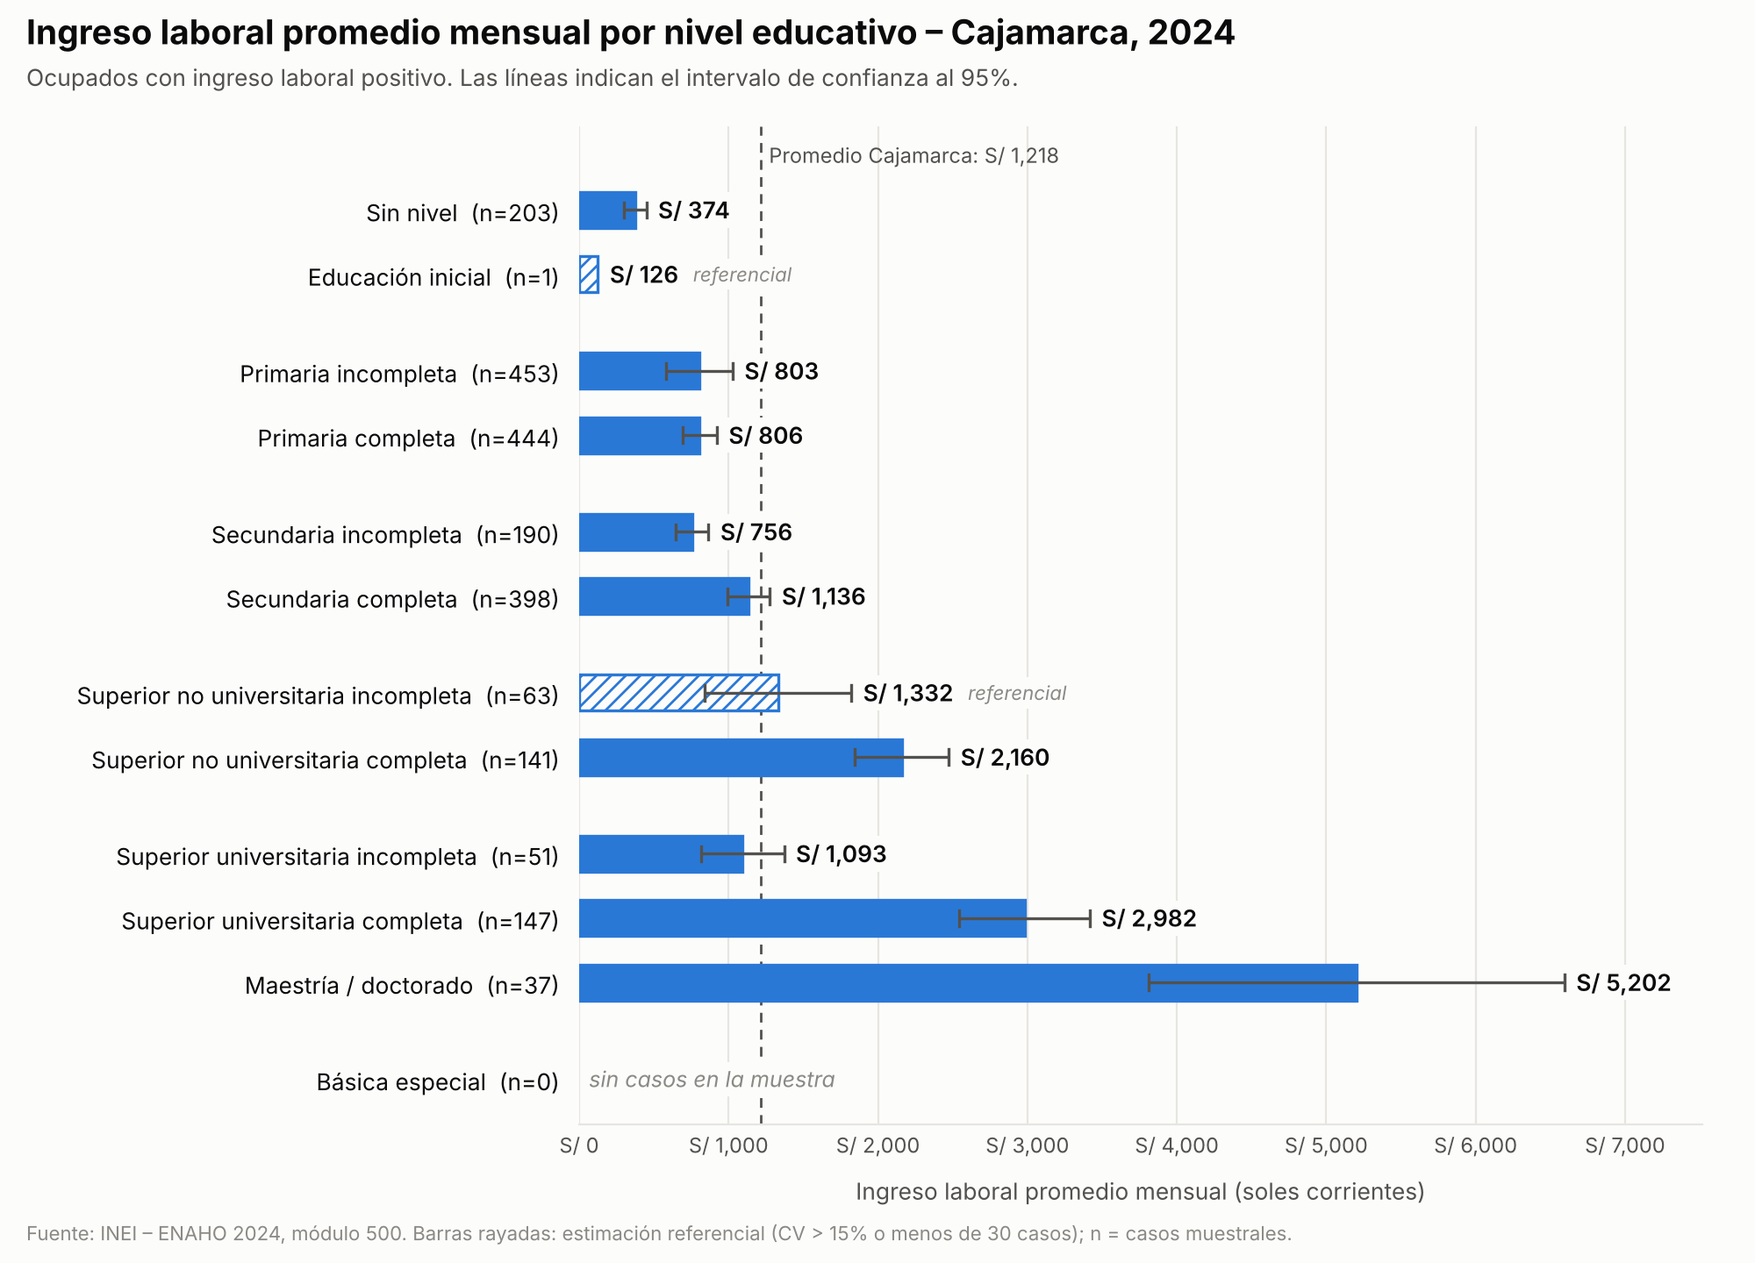
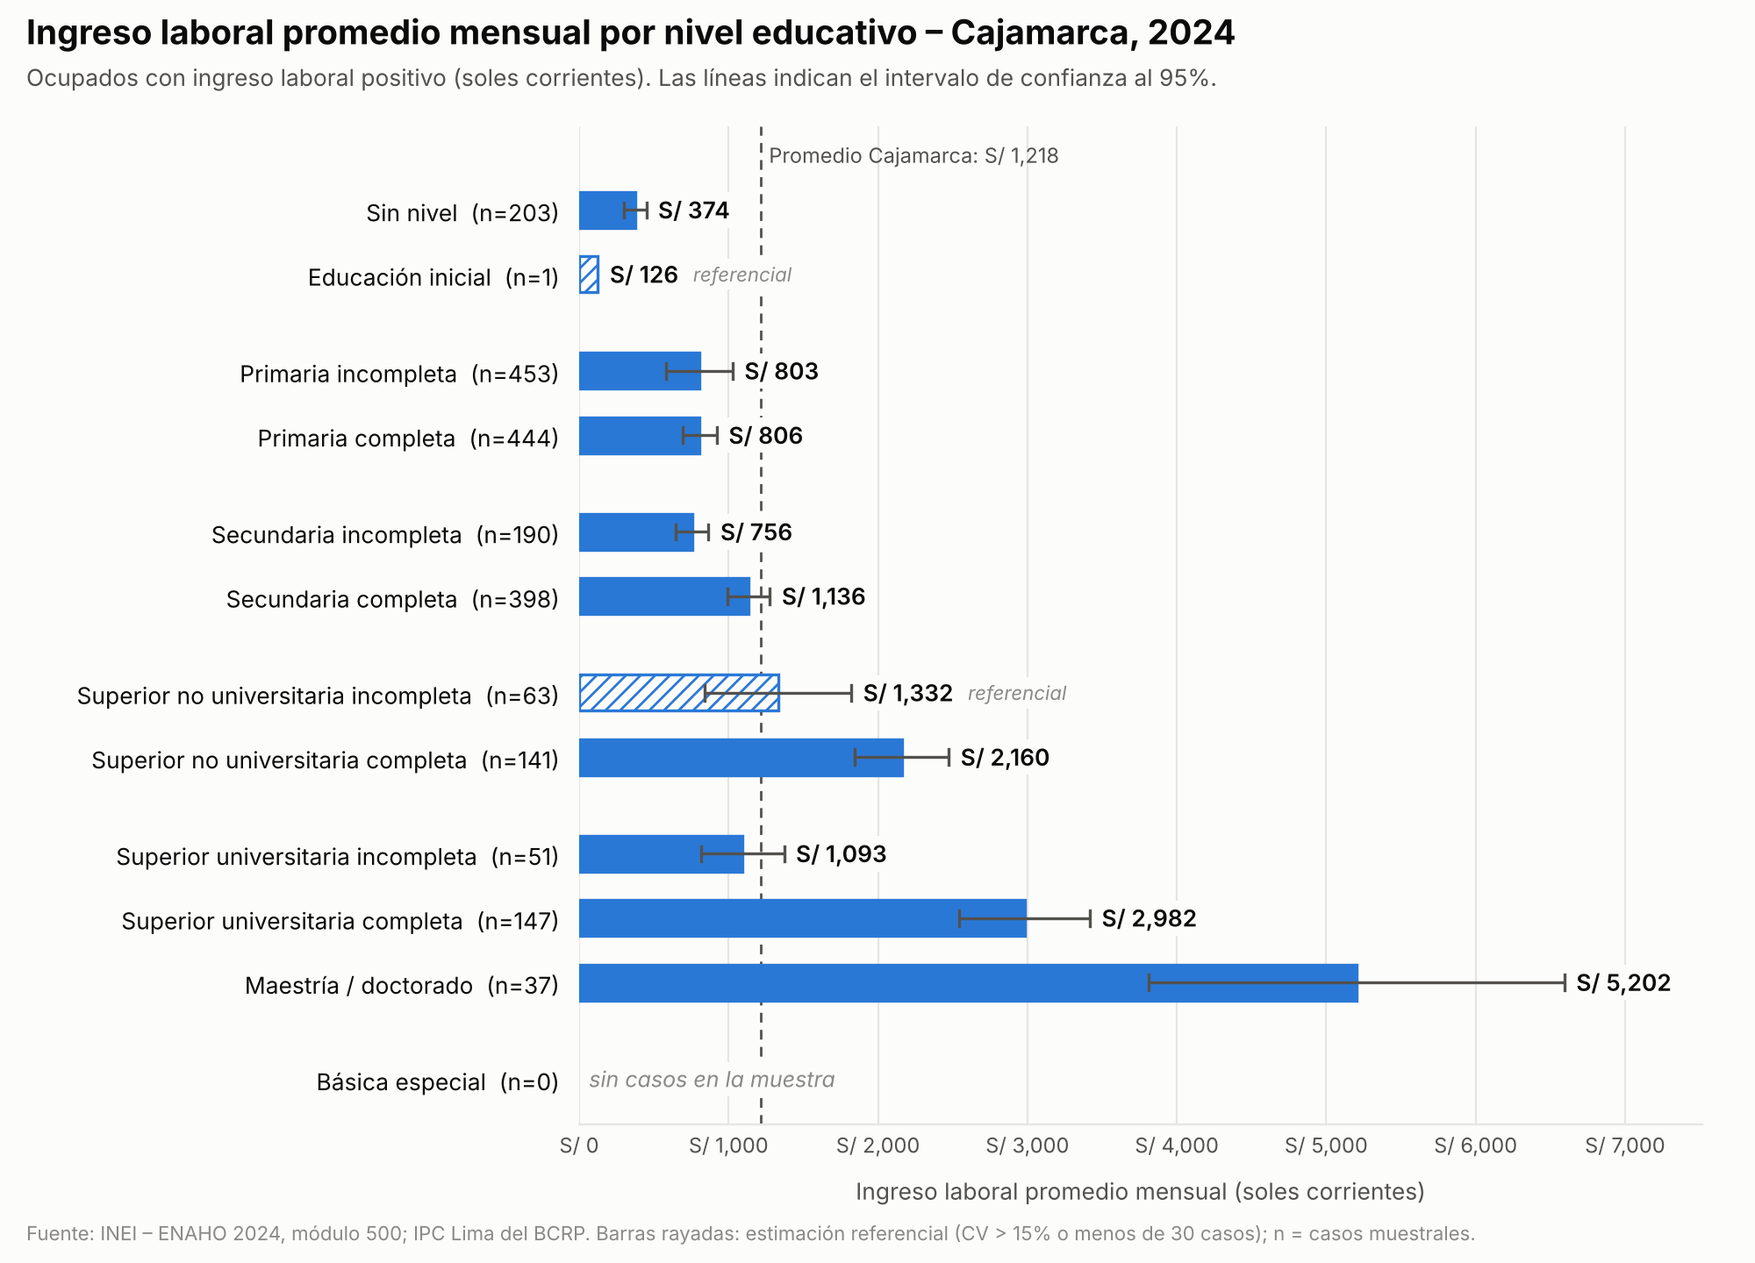
Combinar ENAHO 2020-2024 para estimar el ingreso por nivel educativo
- Descarga y apila los módulos 500 de 2020 a 2024 y lleva los ingresos a
  soles de 2024 con el IPC de Lima Metropolitana (BCRP).
- Divide los factores de expansión entre el número de años y trata cada
  conglomerado panel como una sola UPM al calcular la varianza.
- Mantiene Básica especial como categoría propia en todas las tablas.
- Marca como no estimable la varianza de dominios con un solo conglomerado.
- Agrega la tabla por año y el gráfico del periodo combinado.

Claude-Session: https://claude.ai/code/session_014uDJRbJZgJFJ4yigW9ayAW

diff --git a/enaho_cajamarca/ingreso_por_educacion.py b/enaho_cajamarca/ingreso_por_educacion.py
@@ -4,8 +4,13 @@ Fuente: ENAHO (INEI), módulo 500 "Empleo e Ingresos". El archivo del módulo 50
 ya trae la variable de nivel educativo (p301a), idéntica a la del módulo 300,
 por lo que no hace falta unir ambos módulos.
 
+Con varios años, las muestras se combinan (pooling): los ingresos se llevan a
+soles del último año con el IPC y los factores de expansión se dividen entre el
+número de años, de modo que la población expandida es un promedio anual.
+
 Uso:
-    python ingreso_por_educacion.py                 # Cajamarca (06), ENAHO 2024
+    python ingreso_por_educacion.py                      # Cajamarca (06), ENAHO 2020-2024
+    python ingreso_por_educacion.py --anios 2024         # un solo año
     python ingreso_por_educacion.py --departamento 15
 """
 
@@ -20,8 +25,12 @@ import pandas as pd
 import pyreadstat
 
 # Código de encuesta en el portal de microdatos del INEI (ENAHO anual, metodología actualizada).
-CODIGO_INEI = {2024: 966}
+CODIGO_INEI = {2020: 737, 2021: 759, 2022: 784, 2023: 906, 2024: 966}
 URL_MODULO = "https://proyectos.inei.gob.pe/iinei/srienaho/descarga/STATA/{codigo}-Modulo05.zip"
+
+# IPC Lima Metropolitana (índice dic. 2021 = 100), promedio anual de la serie
+# mensual PN38705PM del BCRP.
+IPC_LIMA = {2020: 93.165, 2021: 96.872, 2022: 104.503, 2023: 111.049, 2024: 113.660}
 
 # Componentes anuales del ingreso laboral (ocupación principal y secundaria,
 # monetario y en especie, más ingresos extraordinarios por trabajo dependiente).
@@ -52,15 +61,16 @@ NIVELES = {
     12: "Básica especial",
 }
 
-# Agrupación usada habitualmente por el INEI en sus publicaciones de empleo e ingreso.
+# Agrupación por etapas. Básica especial se mantiene como categoría propia.
 GRUPOS = {
-    1: "Primaria o menos", 2: "Primaria o menos", 3: "Primaria o menos",
-    4: "Primaria o menos", 12: "Primaria o menos",
+    1: "Primaria o menos", 2: "Primaria o menos", 3: "Primaria o menos", 4: "Primaria o menos",
     5: "Secundaria", 6: "Secundaria",
     7: "Superior no universitaria", 8: "Superior no universitaria",
     9: "Superior universitaria", 10: "Superior universitaria", 11: "Superior universitaria",
+    12: "Básica especial",
 }
-ORDEN_GRUPOS = ["Primaria o menos", "Secundaria", "Superior no universitaria", "Superior universitaria"]
+ORDEN_GRUPOS = ["Primaria o menos", "Secundaria", "Superior no universitaria",
+                "Superior universitaria", "Básica especial"]
 
 CV_MAXIMO = 0.15  # umbral del INEI para considerar una estimación confiable
 N_MINIMO = 30     # casos muestrales mínimos para no marcar la celda como referencial
@@ -81,12 +91,13 @@ def descargar_modulo(anio, carpeta):
     return destino
 
 
-def cargar_datos(ruta):
-    columnas = ["conglome", "ubigeo", "estrato", "ocu500", "fac500a", "p301a", "p507"] + COMPONENTES_INGRESO
+def cargar_anio(ruta, anio, anio_base, n_anios):
+    columnas = ["conglome", "ubigeo", "estrato", "ocu500", "fac500a", "p301a"] + COMPONENTES_INGRESO
     df, _ = pyreadstat.read_dta(str(ruta), usecols=columnas)
-    df["ingreso_mensual"] = df[COMPONENTES_INGRESO].sum(axis=1) / 12
-    df["fac500a"] = df["fac500a"].fillna(0)
-    return df
+    df["anio"] = anio
+    df["ingreso_mensual"] = df[COMPONENTES_INGRESO].sum(axis=1) / 12 * IPC_LIMA[anio_base] / IPC_LIMA[anio]
+    df["fac500a"] = df["fac500a"].fillna(0) / n_anios
+    return df.drop(columns=COMPONENTES_INGRESO)
 
 
 def media_ponderada(df, en_dominio, y="ingreso_mensual", w="fac500a"):
@@ -94,9 +105,14 @@ def media_ponderada(df, en_dominio, y="ingreso_mensual", w="fac500a"):
 
     El dominio se estima sobre la muestra nacional completa (estratos = estrato,
     UPM = conglome), así los conglomerados fuera del dominio aportan ceros y la
-    varianza respeta el diseño muestral.
+    varianza respeta el diseño muestral. Al combinar años, un conglomerado
+    visitado varios años (panel) cuenta como una sola UPM, lo que recoge la
+    correlación entre años. Si el dominio cae en un solo conglomerado, la
+    varianza no es estimable y se devuelve NaN.
     """
     wd = df[w] * en_dominio
+    if df.loc[en_dominio, "conglome"].nunique() < 2:
+        return (wd * df[y]).sum() / wd.sum(), np.nan
     total_w = wd.sum()
     media = (wd * df[y]).sum() / total_w
     u = wd * (df[y] - media) / total_w
@@ -116,19 +132,19 @@ def mediana_ponderada(valores, pesos):
     return v[np.searchsorted(acumulado, acumulado[-1] / 2)]
 
 
-def tabla(df, base, categorias, columna):
+def tabla(df, base, categorias, columna, etiqueta="nivel_educativo"):
     filas = []
     for cat in categorias + ["Total"]:
         en_dominio = base if cat == "Total" else base & (df[columna] == cat)
         sub = df[en_dominio]
         if sub.empty:
-            filas.append({"nivel_educativo": cat, "n_muestral": 0, "poblacion_expandida": 0,
+            filas.append({etiqueta: cat, "n_muestral": 0, "poblacion_expandida": 0,
                           "confiable": "sin casos"})
             continue
         media, ee = media_ponderada(df, en_dominio)
         cv = ee / media
         filas.append({
-            "nivel_educativo": cat,
+            etiqueta: cat,
             "n_muestral": len(sub),
             "poblacion_expandida": round(sub["fac500a"].sum()),
             "ingreso_promedio": round(media, 1),
@@ -137,20 +153,36 @@ def tabla(df, base, categorias, columna):
             "ic95_sup": round(media + 1.96 * ee, 1),
             "cv_pct": round(100 * cv, 1),
             "mediana": round(mediana_ponderada(sub["ingreso_mensual"], sub["fac500a"]), 1),
+            # cv NaN (varianza no estimable) también cae en "referencial".
             "confiable": "sí" if cv <= CV_MAXIMO and len(sub) >= N_MINIMO else "referencial",
         })
     return pd.DataFrame(filas)
 
 
+def leer_anios(texto):
+    if "-" in texto:
+        inicio, fin = (int(x) for x in texto.split("-"))
+        anios = list(range(inicio, fin + 1))
+    else:
+        anios = [int(x) for x in texto.split(",")]
+    faltantes = [a for a in anios if a not in CODIGO_INEI]
+    if faltantes:
+        raise argparse.ArgumentTypeError(f"Años sin código INEI configurado: {faltantes}")
+    return anios
+
+
 def main():
     parser = argparse.ArgumentParser(description=__doc__, formatter_class=argparse.RawDescriptionHelpFormatter)
-    parser.add_argument("--anio", type=int, default=2024, choices=sorted(CODIGO_INEI))
+    parser.add_argument("--anios", type=leer_anios, default=leer_anios("2020-2024"),
+                        help="Rango (2020-2024) o lista (2023,2024) de años de la ENAHO")
     parser.add_argument("--departamento", default="06", help="Código ubigeo de 2 dígitos (06 = Cajamarca)")
     parser.add_argument("--datos", type=Path, default=Path(__file__).parent / "datos")
     parser.add_argument("--salida", type=Path, default=Path(__file__).parent / "resultados")
     args = parser.parse_args()
 
-    df = cargar_datos(descargar_modulo(args.anio, args.datos))
+    anios, anio_base = args.anios, max(args.anios)
+    df = pd.concat([cargar_anio(descargar_modulo(a, args.datos), a, anio_base, len(anios)) for a in anios],
+                   ignore_index=True)
     df["nivel"] = df["p301a"].map(NIVELES)
     df["grupo"] = df["p301a"].map(GRUPOS)
 
@@ -159,18 +191,22 @@ def main():
     # trabajadores familiares no remunerados, que por definición reportan ingreso cero.
     con_ingreso = ocupado_dpto & (df["ingreso_mensual"] > 0)
 
-    args.salida.mkdir(parents=True, exist_ok=True)
-    pd.set_option("display.width", 200)
-    pd.set_option("display.max_columns", 20)
     resultados = {
         "grupos": tabla(df, con_ingreso, ORDEN_GRUPOS, "grupo"),
         "detalle": tabla(df, con_ingreso, list(NIVELES.values()), "nivel"),
         "grupos_todos_ocupados": tabla(df, ocupado_dpto, ORDEN_GRUPOS, "grupo"),
     }
+    if len(anios) > 1:
+        resultados["por_anio"] = tabla(df, con_ingreso, anios, "anio", etiqueta="anio")
+
+    periodo = f"{anios[0]}-{anios[-1]}" if len(anios) > 1 else str(anios[0])
+    args.salida.mkdir(parents=True, exist_ok=True)
+    pd.set_option("display.width", 200)
+    pd.set_option("display.max_columns", 20)
     for nombre, res in resultados.items():
-        archivo = args.salida / f"ingreso_educacion_{args.departamento}_{args.anio}_{nombre}.csv"
+        archivo = args.salida / f"ingreso_educacion_{args.departamento}_{periodo}_{nombre}.csv"
         res.to_csv(archivo, index=False, encoding="utf-8")
-        print(f"\n== {nombre} (S/ corrientes por mes) -> {archivo}")
+        print(f"\n== {nombre} (S/ de {anio_base} por mes) -> {archivo}")
         print(res.to_string(index=False))
 
 

diff --git a/enaho_cajamarca/grafico_ingreso_educacion.py b/enaho_cajamarca/grafico_ingreso_educacion.py
@@ -4,7 +4,8 @@ Lee la tabla detallada que genera ingreso_por_educacion.py y dibuja los 12 nivel
 de p301a de la ENAHO, con su intervalo de confianza al 95%.
 
 Uso:
-    python grafico_ingreso_educacion.py
+    python grafico_ingreso_educacion.py                   # Cajamarca, 2020-2024
+    python grafico_ingreso_educacion.py --periodo 2024
     python grafico_ingreso_educacion.py --departamento 15 --nombre Lima
 """
 
@@ -61,7 +62,11 @@ def configurar_fuente():
             return
 
 
-def graficar(tabla, nombre, anio, salida):
+def graficar(tabla, nombre, periodo, salida):
+    anios = periodo.split("-")
+    periodo_txt = "–".join(anios)
+    alcance = (f"promedio {periodo_txt} en soles de {anios[-1]}" if len(anios) > 1
+               else "soles corrientes")
     configurar_fuente()
     total = tabla.set_index("nivel_educativo").loc["Total", "ingreso_promedio"]
     datos = tabla[tabla["nivel_educativo"] != "Total"].set_index("nivel_educativo")
@@ -83,13 +88,13 @@ def graficar(tabla, nombre, anio, salida):
         referencial = fila["confiable"] != "sí"
         ax.barh(y, fila["ingreso_promedio"], height=0.56, color=SUPERFICIE if referencial else SERIE,
                 edgecolor=SERIE, linewidth=1.2, hatch="////" if referencial else None, zorder=2)
-        if fila["error_estandar"] > 0:
+        if pd.notna(fila["error_estandar"]) and fila["error_estandar"] > 0:
             ax.plot([fila["ic95_inf"], fila["ic95_sup"]], [y, y], color=TEXTO_SECUNDARIO,
                     linewidth=1.2, solid_capstyle="butt", zorder=3)
             for extremo in (fila["ic95_inf"], fila["ic95_sup"]):
                 ax.plot([extremo, extremo], [y - 0.12, y + 0.12], color=TEXTO_SECUNDARIO,
                         linewidth=1.2, zorder=3)
-        x_etiqueta = max(fila["ingreso_promedio"], fila["ic95_sup"]) + x_max * 0.012
+        x_etiqueta = fila[["ingreso_promedio", "ic95_sup"]].max() + x_max * 0.012
         valor = ax.text(x_etiqueta, y, soles(fila["ingreso_promedio"]), va="center", fontsize=9.5,
                         color=TEXTO, fontweight="semibold", bbox=fondo, zorder=4)
         if referencial:
@@ -112,14 +117,14 @@ def graficar(tabla, nombre, anio, salida):
     for lado in ("top", "right", "left"):
         ax.spines[lado].set_visible(False)
     ax.spines["bottom"].set_color(GRILLA)
-    ax.set_xlabel("Ingreso laboral promedio mensual (soles corrientes)", fontsize=9.5,
+    ax.set_xlabel(f"Ingreso laboral promedio mensual ({alcance})", fontsize=9.5,
                   color=TEXTO_SECUNDARIO, labelpad=8)
 
-    fig.text(0.015, 0.965, f"Ingreso laboral promedio mensual por nivel educativo – {nombre}, {anio}",
+    fig.text(0.015, 0.965, f"Ingreso laboral promedio mensual por nivel educativo – {nombre}, {periodo_txt}",
              fontsize=14, fontweight="bold", color=TEXTO)
-    fig.text(0.015, 0.932, "Ocupados con ingreso laboral positivo. Las líneas indican el intervalo de "
-             "confianza al 95%.", fontsize=9.5, color=TEXTO_SECUNDARIO)
-    fig.text(0.015, 0.018, f"Fuente: INEI – ENAHO {anio}, módulo 500. Barras rayadas: estimación referencial "
+    fig.text(0.015, 0.932, f"Ocupados con ingreso laboral positivo ({alcance}). Las líneas indican el "
+             "intervalo de confianza al 95%.", fontsize=9.5, color=TEXTO_SECUNDARIO)
+    fig.text(0.015, 0.018, f"Fuente: INEI – ENAHO {periodo_txt}, módulo 500; IPC Lima del BCRP. Barras rayadas: estimación referencial "
              "(CV > 15% o menos de 30 casos); n = casos muestrales.", fontsize=8, color=TEXTO_TENUE)
     fig.subplots_adjust(left=0.33, right=0.97, top=0.9, bottom=0.11)
     fig.savefig(salida, facecolor=SUPERFICIE)
@@ -128,15 +133,15 @@ def graficar(tabla, nombre, anio, salida):
 
 def main():
     parser = argparse.ArgumentParser(description=__doc__, formatter_class=argparse.RawDescriptionHelpFormatter)
-    parser.add_argument("--anio", type=int, default=2024)
+    parser.add_argument("--periodo", default="2020-2024", help="Periodo de la tabla: 2020-2024 o 2024")
     parser.add_argument("--departamento", default="06")
     parser.add_argument("--nombre", default="Cajamarca", help="Nombre del departamento para el título")
     parser.add_argument("--resultados", type=Path, default=Path(__file__).parent / "resultados")
     args = parser.parse_args()
 
-    base = f"ingreso_educacion_{args.departamento}_{args.anio}"
+    base = f"ingreso_educacion_{args.departamento}_{args.periodo}"
     tabla = pd.read_csv(args.resultados / f"{base}_detalle.csv")
-    graficar(tabla, args.nombre, args.anio, args.resultados / f"{base}_grafico.png")
+    graficar(tabla, args.nombre, args.periodo, args.resultados / f"{base}_grafico.png")
 
 
 if __name__ == "__main__":

diff --git a/enaho_cajamarca/README.md b/enaho_cajamarca/README.md
@@ -1,19 +1,22 @@
-# Ingreso promedio por nivel educativo – Cajamarca (ENAHO 2024)
+# Ingreso promedio por nivel educativo – Cajamarca (ENAHO 2020–2024)
 
 Estima el ingreso laboral promedio mensual por nivel educativo en un departamento
 del Perú (por defecto Cajamarca, ubigeo `06`) usando los microdatos de la
-**ENAHO 2024** del INEI.
+**ENAHO** del INEI. Por defecto combina (pooling) los años **2020 a 2024** para
+ganar muestra en los niveles educativos poco frecuentes.
 
 ## Uso
 
 ```bash
 pip install -r requirements.txt
-python ingreso_por_educacion.py                    # Cajamarca, 2024
+python ingreso_por_educacion.py                    # Cajamarca, 2020-2024 combinados
+python ingreso_por_educacion.py --anios 2024       # un solo año
 python ingreso_por_educacion.py --departamento 15  # otro departamento (ubigeo de 2 dígitos)
-python grafico_ingreso_educacion.py                # gráfico con los 12 niveles de p301a
+python grafico_ingreso_educacion.py                # gráfico 2020-2024 con los 12 niveles de p301a
+python grafico_ingreso_educacion.py --periodo 2024 # gráfico de un solo año
 ```
 
-La primera ejecución descarga el módulo 05 (~17 MB comprimido) del
+La primera ejecución descarga el módulo 05 de cada año (~17 MB comprimido cada uno) del
 [portal de microdatos del INEI](https://proyectos.inei.gob.pe/microdatos/) a `datos/`,
 que no se versiona. Los resultados se guardan en `resultados/` como CSV.
 
@@ -21,43 +24,48 @@ que no se versiona. Los resultados se guardan en `resultados/` como CSV.
 
 | Elemento | Definición |
 |---|---|
-| Base | ENAHO 2024 (código INEI 966), archivo `enaho01a-2024-500.dta` |
+| Base | ENAHO anual, archivo `enaho01a-AAAA-500.dta`. Códigos INEI: 2020 = 737, 2021 = 759, 2022 = 784, 2023 = 906, 2024 = 966 |
 | Población | Ocupados (`ocu500 == 1`) con ubigeo del departamento |
 | Ingreso | Suma anual de `i524a1, d529t, i530a, d536, i538a1, d540t, i541a, d543, d544t` ÷ 12: ocupación principal y secundaria, monetario y en especie, más ingresos extraordinarios |
+| Precios | Con varios años, los ingresos se llevan a soles del último año con el IPC de Lima Metropolitana (BCRP, serie PN38705PM, promedio anual) |
 | Nivel educativo | `p301a` (el archivo del módulo 500 ya la incluye y coincide al 100% con la del módulo 300) |
-| Factor de expansión | `fac500a` |
-| Varianza | Linealización de Taylor; estratos = `estrato`, UPM = `conglome`, estimación de dominio sobre la muestra nacional |
-| Confiabilidad | "referencial" si CV > 15% o n < 30 |
+| Factor de expansión | `fac500a` ÷ número de años (la población expandida es un promedio anual) |
+| Varianza | Linealización de Taylor; estratos = `estrato`, UPM = `conglome`, estimación de dominio sobre la muestra nacional. Un conglomerado visitado varios años (panel) cuenta como una sola UPM |
+| Confiabilidad | "referencial" si CV > 15%, n < 30 o la varianza no es estimable (todos los casos en un solo conglomerado) |
 
-Se generan tres tablas:
+Se generan estas tablas (`*` = `ingreso_educacion_06_2020-2024`):
 
-- `*_grupos.csv`: **definición principal**. Ocupados con ingreso > 0, en 4 grupos educativos.
-  Excluye a los trabajadores familiares no remunerados (387 casos en Cajamarca), que reportan ingreso cero.
+- `*_grupos.csv`: **definición principal**. Ocupados con ingreso > 0, por etapa educativa.
+  Excluye a los trabajadores familiares no remunerados, que reportan ingreso cero.
+  Básica especial se mantiene como categoría propia.
 - `*_detalle.csv`: la misma población con las 12 categorías de `p301a`.
 - `*_grupos_todos_ocupados.csv`: todos los ocupados, incluidos los de ingreso cero.
+- `*_por_anio.csv`: ingreso promedio total de cada año, en soles de 2024.
 
-## Resultados – Cajamarca 2024 (ocupados con ingreso, S/ por mes)
+Los archivos `ingreso_educacion_06_2024_*` son las mismas tablas solo con la ENAHO 2024, en soles corrientes.
+
+## Resultados – Cajamarca 2020–2024 (ocupados con ingreso, S/ de 2024 por mes)
 
 | Nivel educativo | n | Promedio | IC 95% | Mediana |
 |---|---:|---:|---|---:|
-| Primaria o menos | 1,101 | 737 | 623 – 851 | 502 |
-| Secundaria | 588 | 1,022 | 914 – 1,130 | 740 |
-| Superior no universitaria | 204 | 1,887 | 1,635 – 2,139 | 1,368 |
-| Superior universitaria | 235 | 2,852 | 2,367 – 3,338 | 2,405 |
-| **Total** | 2,128 | **1,218** | 1,096 – 1,339 | 721 |
-
-Todos los grupos tienen CV < 10%.
+| Primaria o menos | 5,377 | 669 | 623 – 716 | 465 |
+| Secundaria | 2,919 | 1,007 | 943 – 1,071 | 754 |
+| Superior no universitaria | 913 | 1,742 | 1,600 – 1,885 | 1,321 |
+| Superior universitaria | 998 | 2,872 | 2,534 – 3,210 | 2,465 |
+| Básica especial (referencial) | 2 | 1,350 | no estimable | 1,367 |
+| **Total** | 10,211 | **1,142** | 1,060 – 1,225 | 702 |
 
 ### Detalle por los 12 niveles educativos de la ENAHO
 
-![Ingreso por nivel educativo, Cajamarca 2024](resultados/ingreso_educacion_06_2024_grafico.png)
+![Ingreso por nivel educativo, Cajamarca 2020-2024](resultados/ingreso_educacion_06_2020-2024_grafico.png)
 
-"Básica especial" no tiene casos entre los ocupados con ingreso de Cajamarca, y
-"Educación inicial" (1 caso) y "Superior no universitaria incompleta" (CV 19%)
-son solo referenciales.
+Al combinar los cinco años, todos los niveles son confiables (CV < 10%) salvo
+"Educación inicial" (2 casos) y "Básica especial" (2 casos, ambos de 2023 y del
+mismo conglomerado), que siguen siendo solo referenciales.
 
 ## Advertencias
 
-- Los montos están en soles corrientes de 2024. Las variables `i*` son imputadas y las `d*` deflactadas, como las entrega el INEI.
+- 2020 fue un año de pandemia. Su ingreso promedio (S/ 1,025 en soles de 2024) es el más bajo del periodo y reduce un poco el promedio combinado; ver `*_por_anio.csv`.
+- Los conglomerados de la ENAHO se repiten casi todos entre años (componente panel), así que combinar 5 años no quintuplica la información efectiva. La varianza lo toma en cuenta.
+- Las variables `i*` son imputadas y las `d*` deflactadas, como las entrega el INEI.
 - Las cifras no son directamente comparables con las de la EPEN (por ejemplo, el S/ 1,766 nacional de 2024), que es una encuesta urbana con otra metodología.
-- Varias categorías del detalle tienen pocos casos. Para cortes más finos (por ejemplo, por área urbana o rural) conviene juntar varios años de ENAHO.
